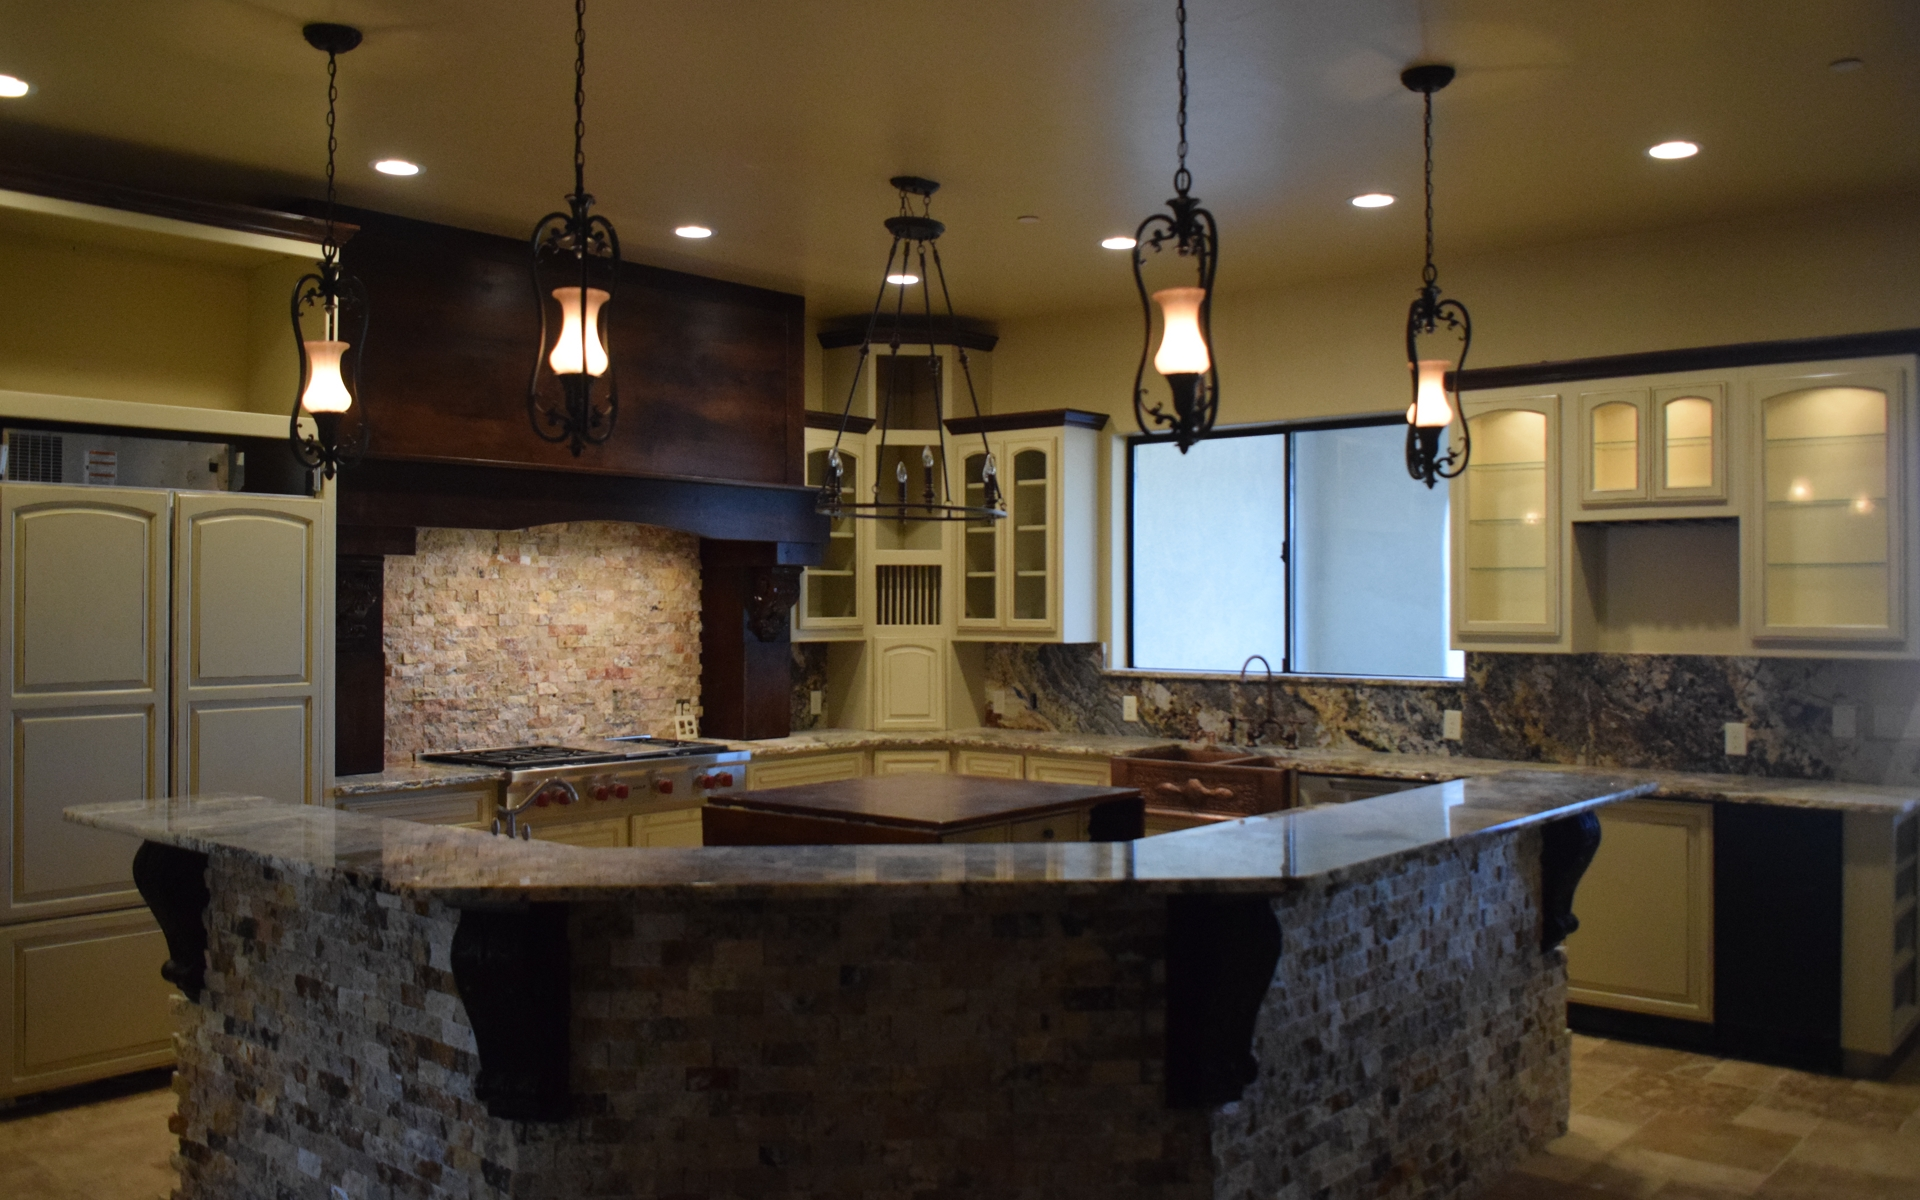
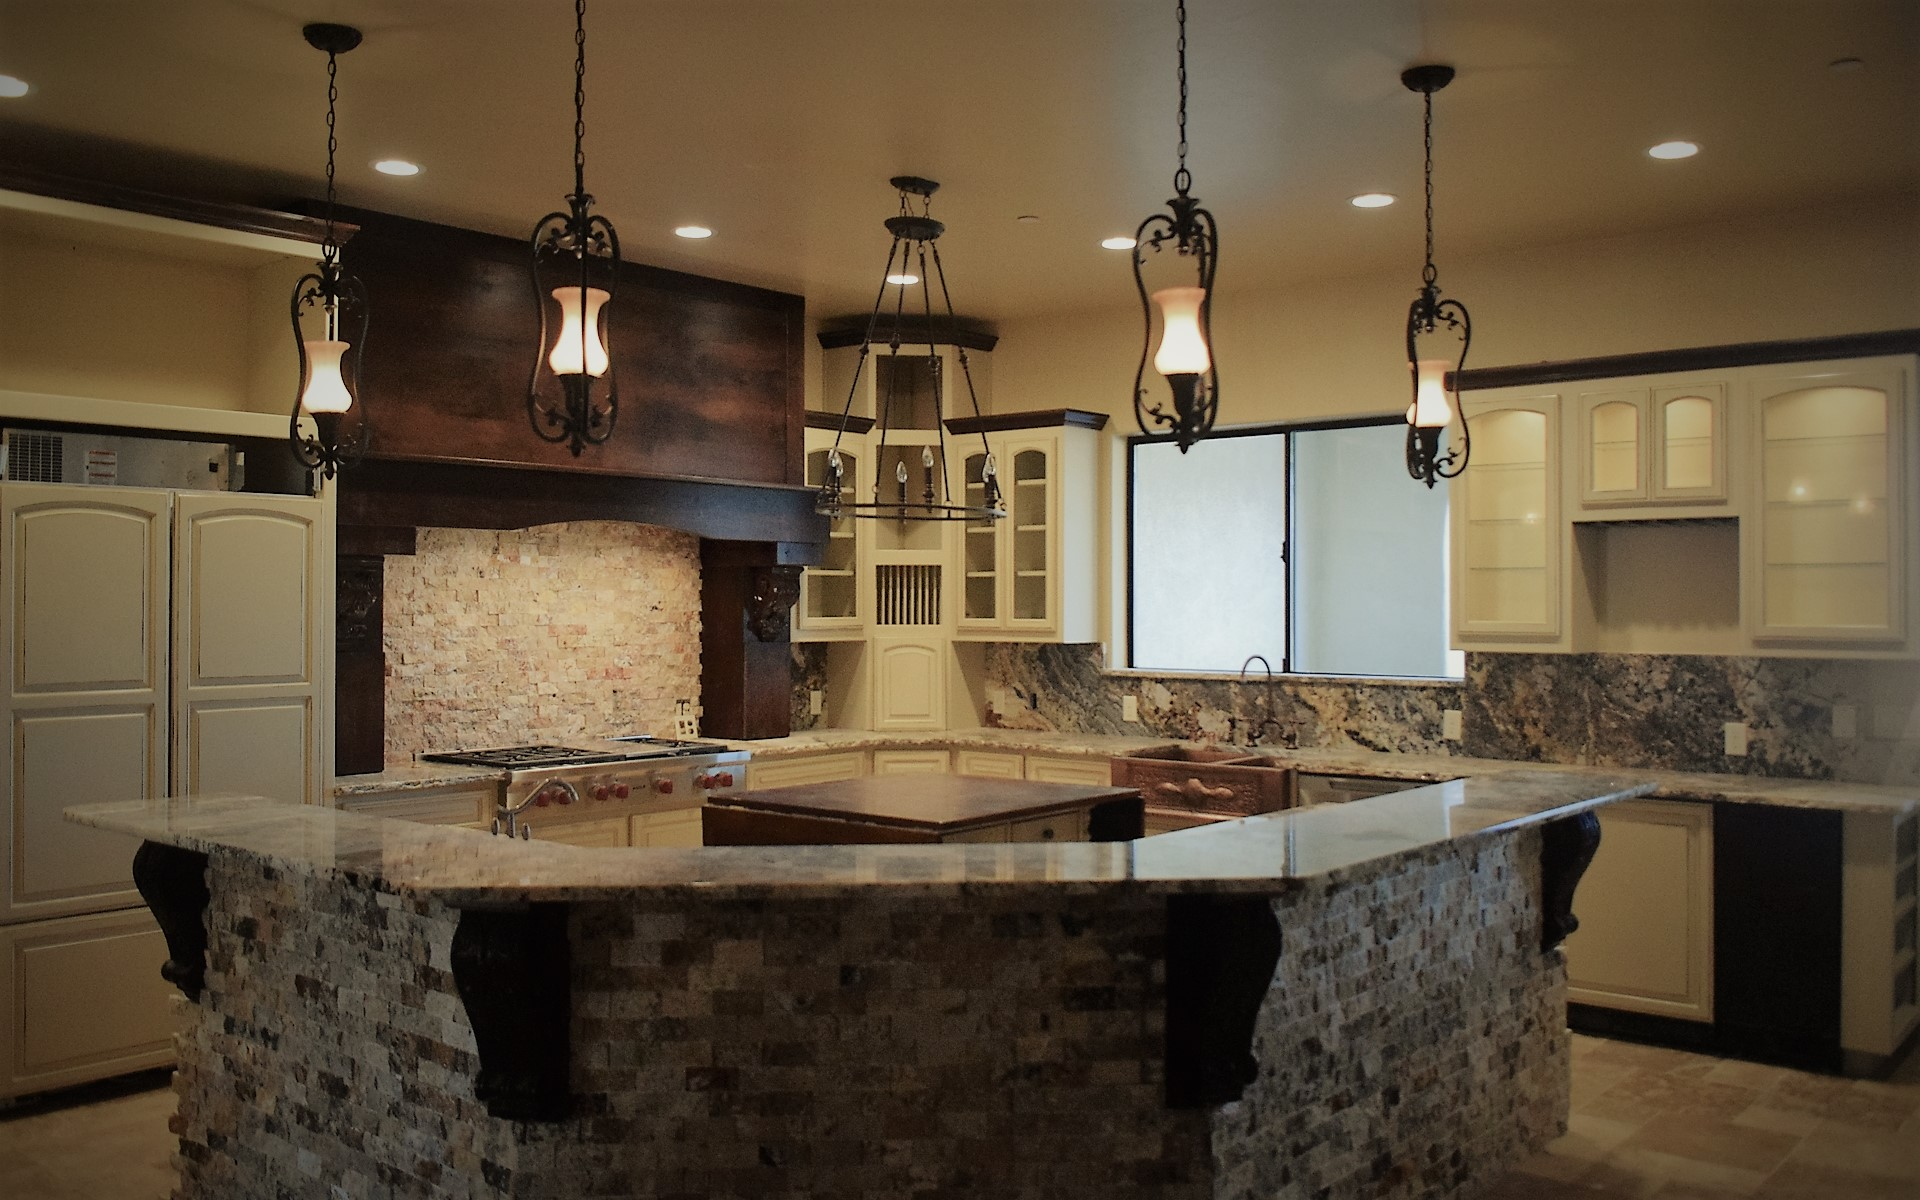
<Numbers /> section updated. Static elements only.

diff --git a/client/src/components/Numbers/numbers.css b/client/src/components/Numbers/numbers.css
@@ -1,0 +1,65 @@
+.numbers_root {
+  position: relative;
+  width: 100vw;
+  max-width: 1600px;
+  margin: auto;
+  height: auto;
+  overflow: hidden;
+  background-color: #fff;
+  display: -webkit-box;
+  display: -ms-flexbox;
+  display: flex;
+  -ms-flex-wrap: wrap;
+  flex-wrap: wrap;
+  -webkit-box-pack: center;
+  -ms-flex-pack: center;
+  justify-content: center;
+  -webkit-box-align: center;
+  -ms-flex-align: center;
+  align-items: center; }
+  .numbers_root div {
+    height: 256px;
+    width: 256px;
+    padding: 16px;
+    margin: 1em;
+    text-align: center;
+    display: -webkit-box;
+    display: -ms-flexbox;
+    display: flex;
+    -webkit-box-pack: center;
+    -ms-flex-pack: center;
+    justify-content: center;
+    -ms-flex-wrap: wrap;
+    flex-wrap: wrap;
+    -webkit-box-align: center;
+    -ms-flex-align: center;
+    align-items: center;
+    -webkit-user-select: none;
+    -moz-user-select: none;
+    -ms-user-select: none;
+    user-select: none; }
+    .numbers_root div ion-icon {
+      font-size: 5em;
+      width: 100%;
+      color: #2d3436;
+      -webkit-user-select: none;
+      -moz-user-select: none;
+      -ms-user-select: none;
+      user-select: none; }
+    .numbers_root div p {
+      display: -webkit-box;
+      display: -ms-flexbox;
+      display: flex;
+      -ms-flex-wrap: wrap;
+      flex-wrap: wrap;
+      -webkit-box-pack: center;
+      -ms-flex-pack: center;
+      justify-content: center;
+      -webkit-box-align: start;
+      -ms-flex-align: start;
+      align-items: flex-start;
+      font-weight: 700;
+      font-size: 1.5em; }
+      .numbers_root div p span {
+        width: 100%;
+        display: block; }

diff --git a/client/src/components/Hero/hero.css b/client/src/components/Hero/hero.css
@@ -2,9 +2,10 @@
   width: 100vw;
   height: 100vh;
   overflow: hidden;
-  background-image: url(./images/kitchen_white.jpg);
+  background-image: url(./images/kitchen_black.jpg);
+  background-attachment: fixed;
   background-size: cover;
-  background-position: center center;
+  background-position: center right;
   display: -webkit-box;
   display: -ms-flexbox;
   display: flex;
@@ -15,9 +16,27 @@
   -ms-flex-align: center;
   align-items: center; }
   .hero_root div {
-    background-color: rgba(225, 112, 85, 0.6);
+    background-color: rgba(192, 57, 43, 0.8);
     color: #fff;
     width: 40%;
     max-width: 768px;
     min-width: 356px;
-    height: 512px; }
+    height: 50%;
+    min-height: 256px; }
+    .hero_root div div {
+      background: none;
+      width: 100%;
+      height: 50%;
+      display: -webkit-box;
+      display: -ms-flexbox;
+      display: flex;
+      -webkit-box-pack: center;
+      -ms-flex-pack: center;
+      justify-content: center;
+      -webkit-box-align: center;
+      -ms-flex-align: center;
+      align-items: center;
+      overflow: hidden; }
+    .hero_root div p {
+      display: block;
+      padding: 1em 2em; }

diff --git a/client/src/components/Navbar/navbar.css b/client/src/components/Navbar/navbar.css
@@ -1,6 +1,6 @@
 .nav_root {
   color: #fff;
-  background-color: rgba(225, 112, 85, 0.7);
+  background-color: rgba(192, 57, 43, 0.8);
   text-decoration: none;
   list-style: none;
   display: -webkit-box;
@@ -10,7 +10,7 @@
   -ms-flex-pack: start;
   justify-content: flex-start;
   text-transform: uppercase;
-  font-size: 1.2em;
+  font-size: 1.1em;
   font-weight: 700;
   position: absolute;
   top: 0;
@@ -19,18 +19,19 @@
   height: auto;
   padding: 1em; }
   .nav_root li {
-    border-right: 1px solid #f1f1f1; }
+    border-right: 1px solid #f1f1f1;
+    padding: .25em .5em; }
     .nav_root li:last-child {
       border: none; }
+    .nav_root li:active {
+      color: #fff;
+      -webkit-transform: translateY(5px);
+      -ms-transform: translateY(5px);
+      transform: translateY(5px); }
   .nav_root a {
     color: #fff;
     text-decoration: none;
     padding: 4px;
     margin: .25em; }
     .nav_root a:hover {
-      outline: 1px solid #fff; }
-    .nav_root a:active {
-      color: #fff;
-      -webkit-transform: translateY(5px);
-      -ms-transform: translateY(5px);
-      transform: translateY(5px); }
+      border-bottom: 1px solid #fff; }

diff --git a/client/src/components/Numbers/numbers.scss b/client/src/components/Numbers/numbers.scss
@@ -1,0 +1,48 @@
+@import "../../_scss/_vars";
+
+.numbers_root {
+    position: relative;
+    width: 100vw;
+    max-width: 1600px;
+    margin: auto;
+    height: auto;
+    overflow: hidden;
+    background-color: #fff;
+    display: flex;
+    flex-wrap: wrap;
+    justify-content: center;
+    align-items: center;
+
+    div {
+        height: 256px;
+        width: 256px;
+        padding: 16px;
+        margin: 1em;
+        text-align: center;
+        display: flex;
+        justify-content: center;
+        flex-wrap: wrap;
+        align-items: center;
+        user-select: none;
+
+        ion-icon {
+            font-size: 5em;
+            width: 100%;
+            color: $dark;
+            user-select: none;
+        }
+
+        p {
+            display: flex;
+            flex-wrap: wrap;
+            justify-content: center;
+            align-items: flex-start;
+            font-weight: 700;
+            font-size: 1.5em;
+            span {
+                width: 100%;
+                display: block;
+            }
+        }
+    }
+}

diff --git a/client/src/components/Hero/hero.scss b/client/src/components/Hero/hero.scss
@@ -4,19 +4,36 @@
     width: 100vw;
     height: 100vh;
     overflow: hidden;
-    background-image: url(./images/kitchen_white.jpg);
+    background-image: url(./images/kitchen_black.jpg);
+    background-attachment: fixed;
     background-size: cover;
-    background-position: center center;
+    background-position: center right;
     display: flex;
     justify-content: flex-end;
     align-items: center;
 
     div {
-        background-color: rgba($main, .6);
+        background-color: rgba($main, .8);
         color: #fff;
         width: 40%;
         max-width: 768px;
         min-width: 356px;
-        height: 512px;
+        height: 50%;
+        min-height: 256px;
+        
+        div {
+            background: none;
+            width: 100%;
+            height: 50%;
+            display: flex;
+            justify-content: center;
+            align-items: center;
+            overflow: hidden;
+        }
+
+        p {
+            display: block;
+            padding: 1em 2em;
+        }
     }
 }

diff --git a/client/src/components/Navbar/navbar.scss b/client/src/components/Navbar/navbar.scss
@@ -2,13 +2,13 @@
 
 .nav_root {
     color: #fff;
-    background-color: rgba($main, .7);
+    background-color: rgba($main, .8);
     text-decoration: none;
     list-style: none;
     display: flex;
     justify-content: flex-start;
     text-transform: uppercase;
-    font-size: 1.2em;
+    font-size: 1.1em;
     font-weight: 700;
     position: absolute;
     top: 0;
@@ -19,9 +19,15 @@
 
     li {
         border-right: 1px solid $light;
+        padding: .25em .5em;
 
         &:last-child {
             border: none;
+        }
+
+        &:active {
+            color: #fff;
+            transform: translateY(5px);
         }
     }
 
@@ -32,12 +38,8 @@
         margin: .25em;
 
         &:hover {
-            outline: 1px solid #fff;
+            border-bottom: 1px solid #fff;
         }
 
-        &:active {
-            color: #fff;
-            transform: translateY(5px);
-        }
     }
 }

diff --git a/client/src/components/Numbers/index.jsx b/client/src/components/Numbers/index.jsx
@@ -1,0 +1,27 @@
+import React from 'react'
+import './numbers.css';
+
+function Numbers () {
+    return (
+        <div className="numbers_root">
+            <div>
+                <ion-icon name="cash"></ion-icon>
+                <p>Afordable</p>
+            </div>
+            <div>
+                <ion-icon name="calendar"></ion-icon>
+                <p>39+ Years <span>in the industry</span></p>
+            </div>
+            <div>
+                <ion-icon name="clipboard"></ion-icon>
+                <p>Licensed Bonded <span>Insured</span></p>
+            </div>
+            <div>
+                <ion-icon name="construct"></ion-icon>
+                <p>Custom</p>
+            </div>
+        </div>
+    )
+}
+
+export default Numbers;

diff --git a/client/src/pages/Home/index.jsx b/client/src/pages/Home/index.jsx
@@ -3,6 +3,7 @@ import { Header } from '../../components';
 import Signup from "../../components/Signup";
 import "./home.css";
 import Hero from "../../components/Hero";
+import Numbers from "../../components/Numbers";
 
 export default class Home extends Component {
 	constructor(props) {
@@ -22,6 +23,7 @@ export default class Home extends Component {
 				<div className="Home">
 					<Header user={this.state.user} />
 					<Hero />
+					<Numbers />
 					<Signup />
 				</div>
 			)
@@ -30,6 +32,7 @@ export default class Home extends Component {
 				<div className="Home">
 					<Header user={this.state.user} />
 					<Hero />
+					<Numbers />
 					<Signup />
 				</div>
 			)

diff --git a/client/src/components/Hero/index.jsx b/client/src/components/Hero/index.jsx
@@ -1,10 +1,18 @@
 import React from 'react'
 import './hero.css';
 
-function Hero () {
+function Hero() {
     return (
         <div className="hero_root">
-            <div>Tubac Woodworks</div>
+            <div>
+            <div>Tubac Woodworks img</div>
+            <p>
+                Tubac Woodworks Inc, building custom
+                cabinetry, etertainment center, bookcases,
+                desks, and a variety of other wood products
+                for home, office, or business.
+            </p>
+            </div>
         </div>
     )
 }

diff --git a/client/src/_scss/_vars.scss b/client/src/_scss/_vars.scss
@@ -1,4 +1,5 @@
-$main: #e17055;
+$main: #c0392b;
+$main_dark: #e15f41;
 $highlight: #f1f1f1;
 $text: #fff;
 $dark: #2d3436;
